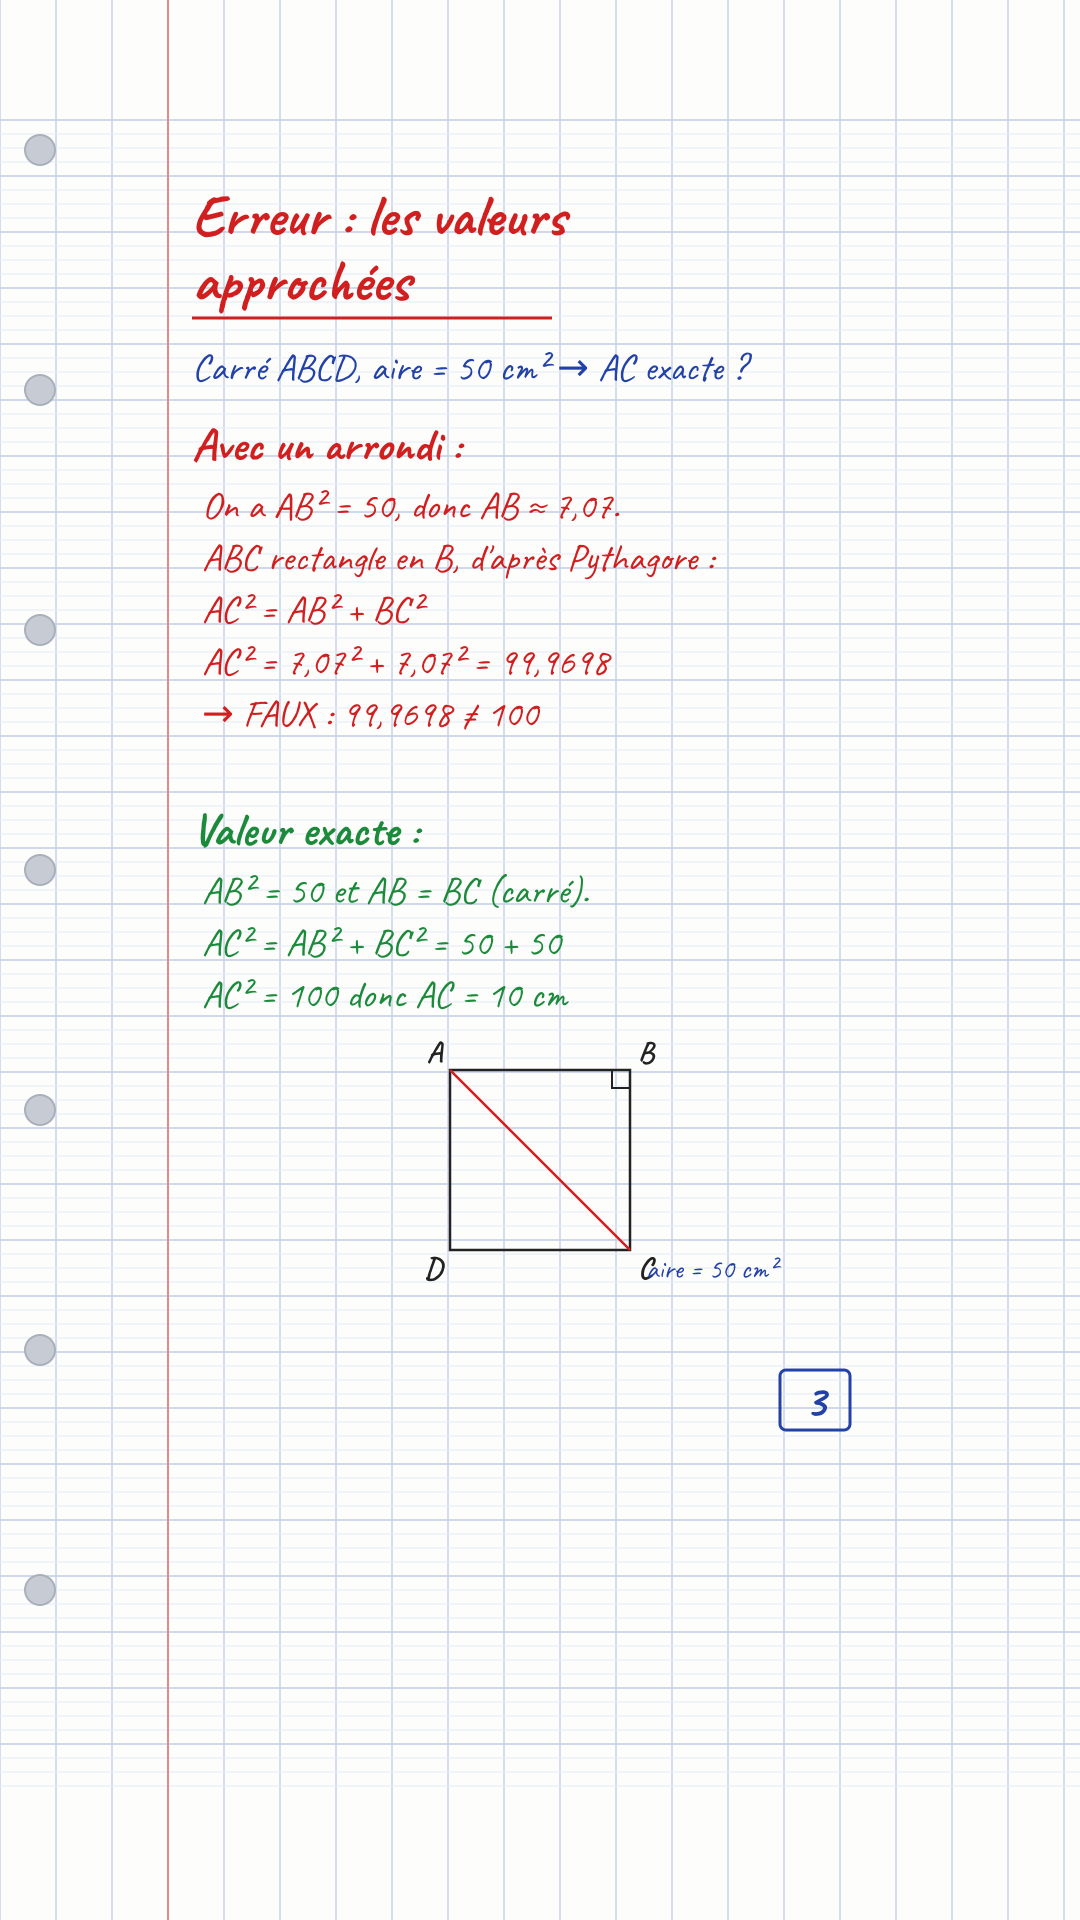
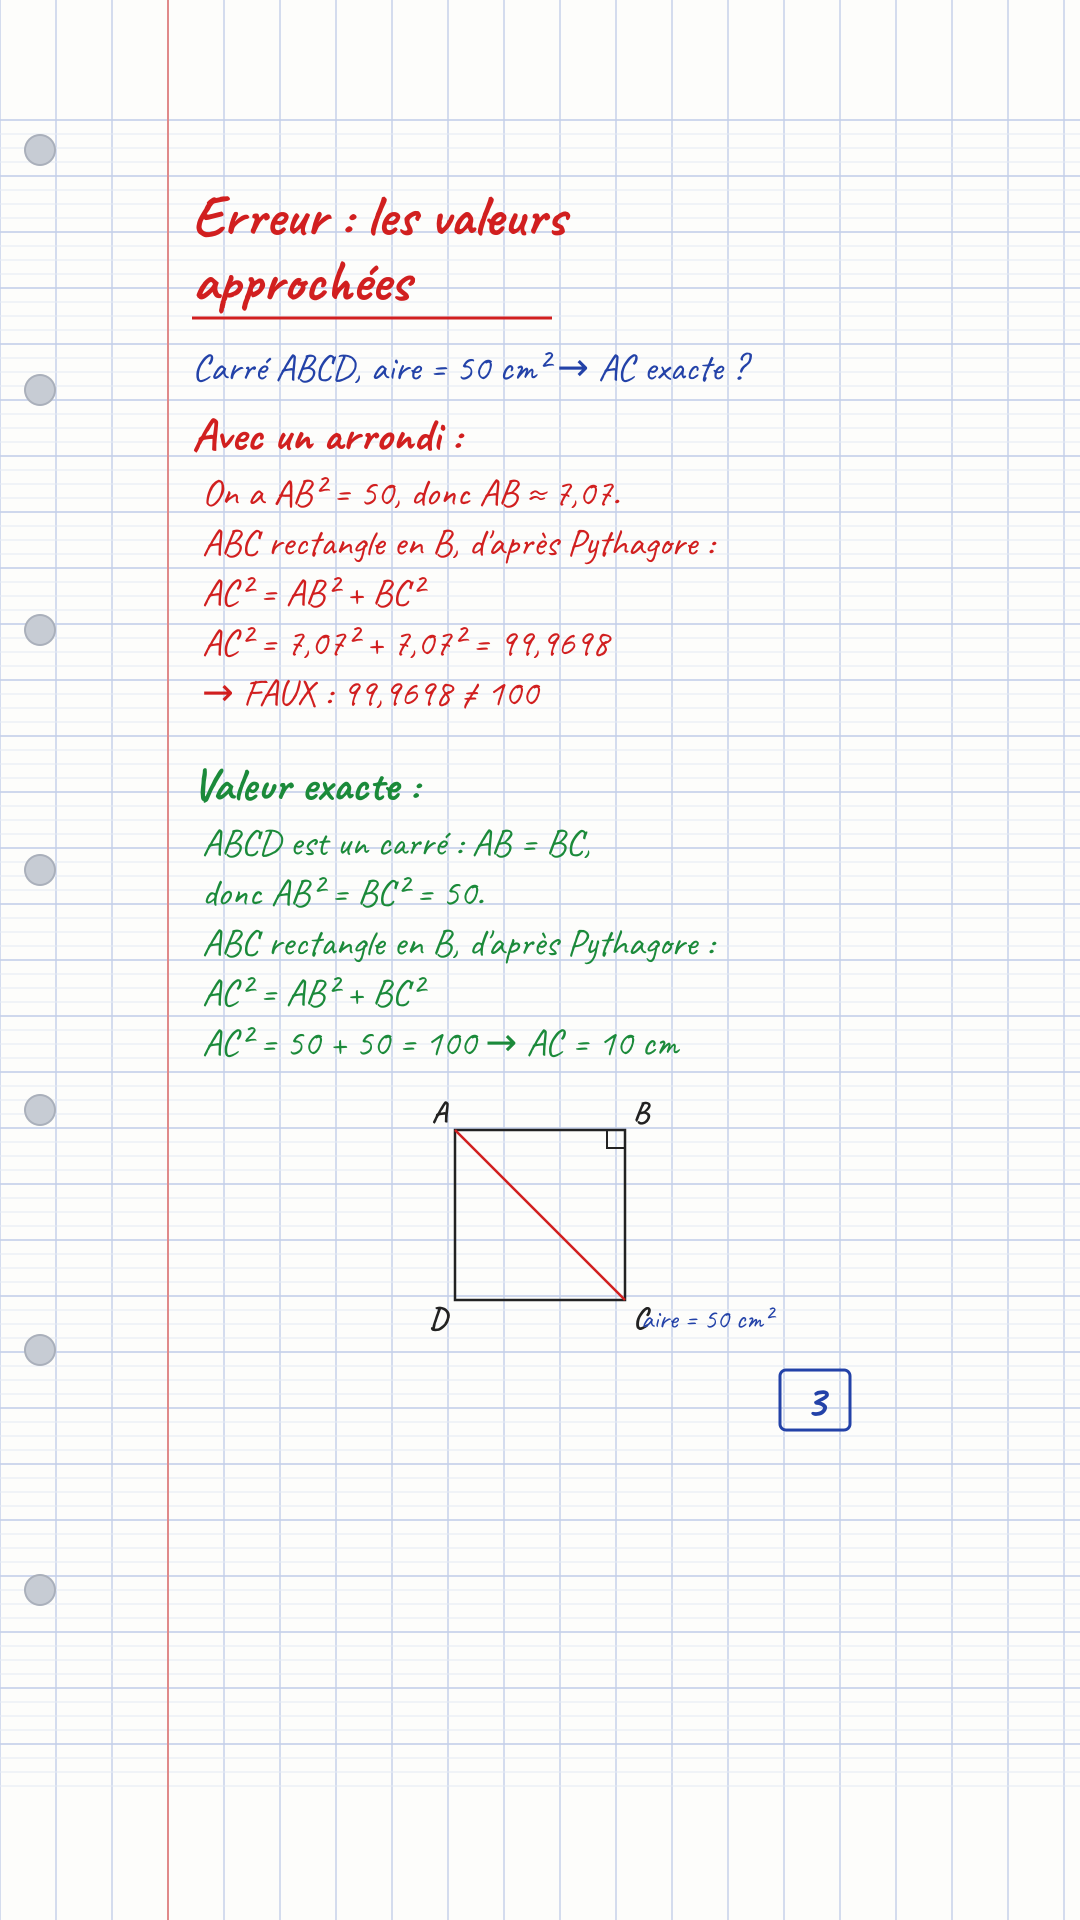
Full Pythagore redaction in the exact part of the square example
State 'ABC rectangle en B, d'apres Pythagore: AC2 = AB2 + BC2' in the
exact version too (justify AB = BC from the square), reflow blocks.

Changed region(s): [[0.1833, 0.4062, 0.6417, 0.6875], [0.1833, 0.2188, 0.6417, 0.375], [0.6722, 0.6562, 0.7028, 0.6875]]

diff --git a/templates/copie-exemple-arrondis.html b/templates/copie-exemple-arrondis.html
@@ -58,16 +58,16 @@
     .bloc{position:absolute;left:calc(var(--carreau)*4);right:var(--safe-right);font-family:var(--manuscrit);z-index:2;}
     .titre{top:var(--safe-top);color:var(--rouge);font-weight:700;font-size:60px;line-height:1.05;text-decoration:underline;}
     .enonce{top:350px;color:var(--bleu);font-size:38px;line-height:1.25;}
-    .faux{top:430px;color:var(--rouge);font-size:38px;line-height:1.37;}
-    .exact{top:815px;color:var(--vert);font-size:38px;line-height:1.37;}
+    .faux{top:420px;color:var(--rouge);font-size:38px;line-height:1.32;}
+    .exact{top:780px;color:var(--vert);font-size:38px;line-height:1.32;}
     .faux .h,.exact .h{font-weight:700;font-size:46px;text-decoration:underline;}
     .pied{position:absolute;top:1370px;right:var(--safe-right);color:var(--bleu);font-family:var(--manuscrit);
       font-weight:700;font-size:46px;z-index:2;}
     .pied .num{border:2px solid var(--bleu);border-radius:6px;padding:2px 18px;}
 
     /* FIGURE (optionnelle) — centrée en bas */
-    .figure{position:absolute;top:1040px;left:0;right:0;z-index:2;text-align:center;}
-    .figure svg{width:190px;height:190px;}
+    .figure{position:absolute;top:1130px;left:0;right:0;z-index:2;text-align:center;}
+    .figure svg{width:170px;height:170px;}
     .figure .leg{font-family:var(--manuscrit);font-size:28px;color:var(--bleu);}
     body.sans-figure .figure{display:none;}
   </style>
@@ -102,9 +102,11 @@
 
     <div class="bloc exact" contenteditable>
       <span class="h">Valeur exacte :</span><br>
-      AB² = 50 et AB = BC (carré).<br>
-      AC² = AB² + BC² = 50 + 50<br>
-      AC² = 100   donc   AC = 10 cm
+      ABCD est un carré : AB = BC,<br>
+      donc AB² = BC² = 50.<br>
+      ABC rectangle en B, d'après Pythagore :<br>
+      AC² = AB² + BC²<br>
+      AC² = 50 + 50 = 100  →  AC = 10 cm
     </div>
 
     <!-- FIGURE optionnelle : carré ABCD, diagonale AC, angle droit en B -->
